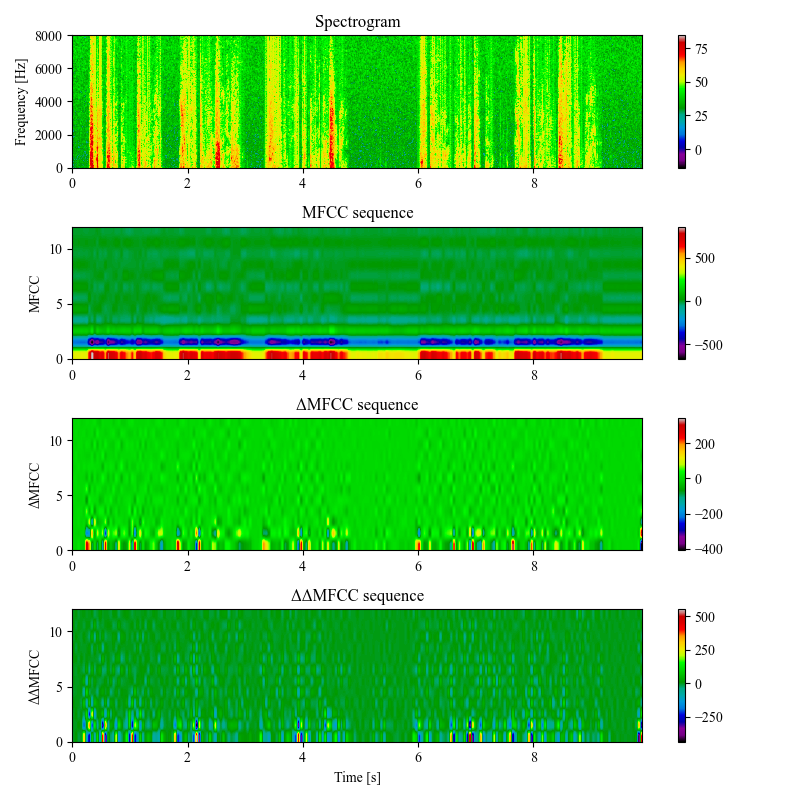
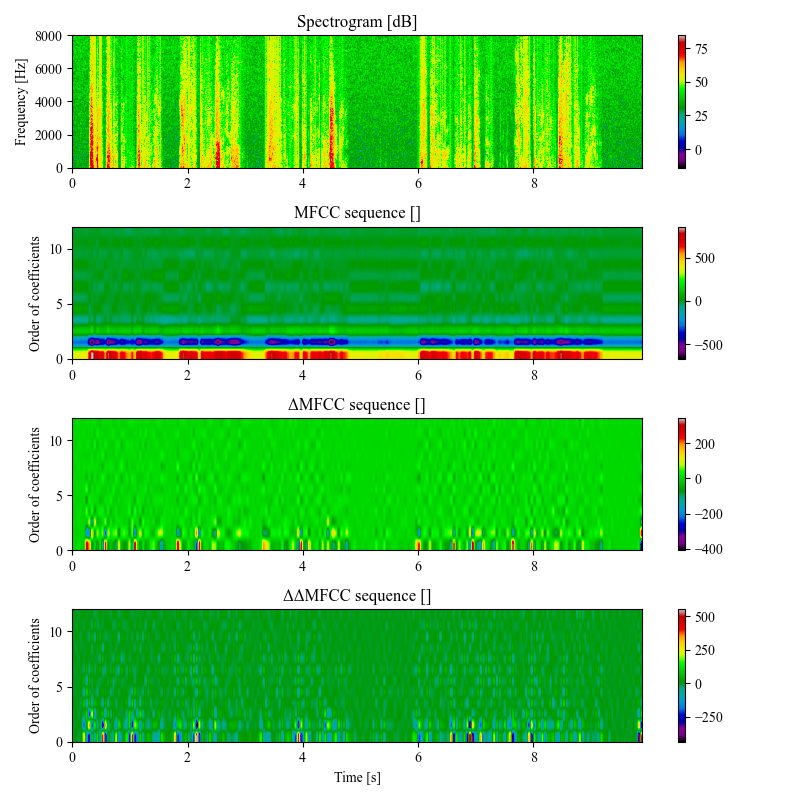
change plt colors

diff --git a/ex5/k_hattori/main.py b/ex5/k_hattori/main.py
@@ -30,7 +30,7 @@ def load_csv(path):
     return array
 
 
-def clustering_2d(data, k, centroids):
+def clustering_2d(data, centroids):
     """
     Clustering data using centroids for 2D.
 
@@ -72,7 +72,7 @@ def k_means_2d(data, k):
     count = 0
     error = 1000
     while error > min_e and count < 1000:
-        label = clustering_2d(data, k, centroids)
+        label = clustering_2d(data, centroids)
         previous_cent = centroids.copy()
         for i in range(k):
             centroids[i, 0] = np.mean(data[label == i, 0])
@@ -81,7 +81,9 @@ def k_means_2d(data, k):
         error = difference[np.argmax(difference)]
         count += 1
     # Reclassify and plot vectors
-    label = clustering_2d(data, k, centroids)
+    label = clustering_2d(data, centroids)
+    cm = plt.get_cmap("Pastel1").colors
+    plt.rcParams["axes.prop_cycle"] = plt.cycler("color", cm)
     for i in range(k):
         plt.scatter(data[label == i, 0], data[label == i, 1])
     plt.scatter(init_centroid[:, 0], init_centroid[:, 1], marker="x",
@@ -94,7 +96,7 @@ def k_means_2d(data, k):
     return label
 
 
-def clustering_3d(data, k, centroids):
+def clustering_3d(data, centroids):
     """
     Clustering data using centroids for 3D.
 
@@ -136,7 +138,7 @@ def k_means_3d(data, k):
     count = 0
     error = 1000
     while error > min_e and count < 1000:
-        label = clustering_3d(data, k, centroids)
+        label = clustering_3d(data, centroids)
         previous_cent = centroids.copy()
         for i in range(k):
             centroids[i, 0] = np.mean(data[label == i, 0])
@@ -146,7 +148,8 @@ def k_means_3d(data, k):
         error = difference[np.argmax(difference)]
         count += 1
     # Reclassify and plot vectors
-    label = clustering_3d(data, k, centroids)
+    cm = plt.get_cmap("Pastel1").colors
+    plt.rcParams["axes.prop_cycle"] = plt.cycler("color", cm)
     fig = plt.figure()
     ax = fig.add_subplot(projection="3d")
     for i in range(k):
@@ -303,7 +306,7 @@ def MFCC_plot(data, mfcc, d_mfcc, dd_mfcc, TOTAL_TIME, samplerate):
     plt.figure(figsize=[8, 8])
 
     plt.subplot(411)
-    plt.title("Spectrogram")
+    plt.title("Spectrogram [dB]")
     plt.imshow(amp.T[freq <= 8000, :],
                extent=[0, TOTAL_TIME, 0, 8000], aspect="auto")
     plt.colorbar()
@@ -312,29 +315,29 @@ def MFCC_plot(data, mfcc, d_mfcc, dd_mfcc, TOTAL_TIME, samplerate):
     plt.ylabel("Frequency [Hz]")
 
     plt.subplot(412)
-    plt.title("MFCC sequence")
+    plt.title("MFCC sequence []")
     plt.imshow(mfcc.T[::-1], extent=[0, TOTAL_TIME, 0, 12], aspect="auto")
     plt.colorbar()
     plt.xlim(0, TOTAL_TIME)
     plt.ylim(0, 12)
-    plt.ylabel("MFCC")
+    plt.ylabel("Order of coefficients")
 
     plt.subplot(413)
-    plt.title("ΔMFCC sequence")
+    plt.title("ΔMFCC sequence []")
     plt.imshow(d_mfcc.T[::-1], extent=[0, TOTAL_TIME, 0, 12], aspect="auto")
     plt.colorbar()
     plt.xlim(0, TOTAL_TIME)
     plt.ylim(0, 12)
-    plt.ylabel("ΔMFCC")
+    plt.ylabel("Order of coefficients")
 
     plt.subplot(414)
-    plt.title("ΔΔMFCC sequence")
+    plt.title("ΔΔMFCC sequence []")
     plt.imshow(dd_mfcc.T[::-1], extent=[0, TOTAL_TIME, 0, 12], aspect="auto")
     plt.colorbar()
     plt.xlim(0, TOTAL_TIME)
     plt.ylim(0, 12)
     plt.xlabel("Time [s]")
-    plt.ylabel("ΔΔMFCC")
+    plt.ylabel("Order of coefficients")
 
     plt.tight_layout()
     plt.show()
